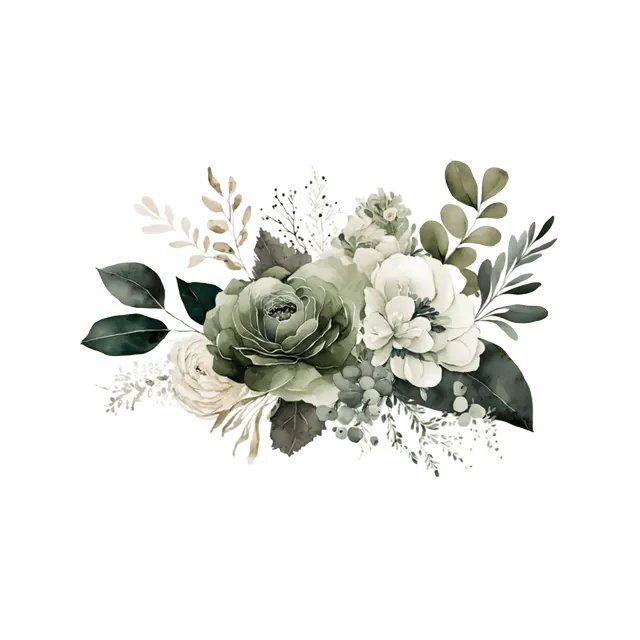
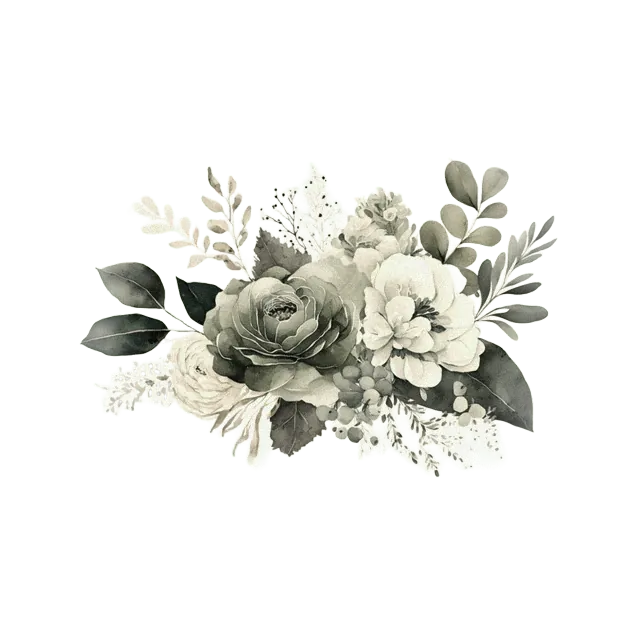
Fluidez de vuelta: flores horneadas; la cancion siempre suena; boton de silencio
Las flores llevaban un filtro SVG (feTurbulence) mas filtros CSS y una
mascara, dos de ellas dentro del hero sticky: en iOS eso obliga a
repintar por software en cada cuadro de la recogida del video. Ahora
tinte, grano y fundido van horneados en los propios webp (ffmpeg) y
las flores son imagenes planas en su propia capa; fuera el filtro SVG
y los blur de la portada; el hero ya no aisla contexto.

La cancion se desbloquea dentro del toque del sello (play + pause en
el gesto): iOS solo permite reproducir fuera de un toque a los
elementos que ya sonaron dentro de uno, y la cancion se pedia por
primera vez al hacer scroll. Si aun asi se rechaza, se reintenta en el
siguiente toque. Boton de silencio global (cancion y trailer), abajo a
la derecha, coordinado con el boton de sonido del trailer.

diff --git a/index.html b/index.html
@@ -17,20 +17,14 @@
   <link rel="preconnect" href="https://fonts.googleapis.com">
   <link rel="preconnect" href="https://fonts.gstatic.com" crossorigin>
   <link href="https://fonts.googleapis.com/css2?family=Bodoni+Moda:ital,opsz,wght@0,6..96,400;0,6..96,500;1,6..96,400&family=Jost:wght@300;400;500&family=Pinyon+Script&display=swap" rel="stylesheet">
-  <link rel="preload" as="image" href="savethedate-poster.jpg?v=20260903p">
-  <link rel="stylesheet" href="velada.css?v=20260903p">
+  <link rel="preload" as="image" href="savethedate-poster.jpg?v=20260903r">
+  <link rel="stylesheet" href="velada.css?v=20260903r">
 </head>
 <body>
 
 <!-- Símbolos dibujados una vez: ramita de olivo, esquina grabada, rombo, sello de lacre, escudo, hoja -->
 <svg width="0" height="0" style="position:absolute" aria-hidden="true">
   <defs>
-    <filter id="grano-flor" x="0" y="0" width="100%" height="100%" color-interpolation-filters="sRGB">
-      <feTurbulence type="fractalNoise" baseFrequency="0.9" numOctaves="2" seed="7" result="ruido"></feTurbulence>
-      <feColorMatrix in="ruido" type="matrix" values="0 0 0 0 0.42  0 0 0 0 0.36  0 0 0 0 0.3  0 0 0 0.42 0" result="grano"></feColorMatrix>
-      <feComposite in="grano" in2="SourceGraphic" operator="in" result="granoDentro"></feComposite>
-      <feBlend in="SourceGraphic" in2="granoDentro" mode="multiply"></feBlend>
-    </filter>
     <symbol id="ramita" viewBox="0 0 120 60">
       <path d="M6 54 C 34 46, 62 32, 114 6" fill="none"></path>
       <path d="M24 47 q 4 -12 14 -9 q -6 11 -14 9 z"></path>
@@ -76,8 +70,8 @@
 <!-- ══════════════ 00 · LA PORTADA · la carta que se abre ══════════════ -->
 <div class="portada" id="portada">
   <div class="hojas" id="portada-hojas" aria-hidden="true"></div>
-  <span class="flor flor--portada-tl" aria-hidden="true"><img src="flor-1.webp?v=20260903p" alt="" loading="lazy" decoding="async"></span>
-  <span class="flor flor--portada-br" aria-hidden="true"><img src="flor-2.webp?v=20260903p" alt="" loading="lazy" decoding="async"></span>
+  <span class="flor flor--portada-tl" aria-hidden="true"><img src="flor-1.webp?v=20260903r" alt="" loading="lazy" decoding="async"></span>
+  <span class="flor flor--portada-br" aria-hidden="true"><img src="flor-2.webp?v=20260903r" alt="" loading="lazy" decoding="async"></span>
   <div class="portada__barra portada__barra--arriba" aria-hidden="true"></div>
   <div class="portada__barra portada__barra--abajo" aria-hidden="true"></div>
   <div class="portada__vineta" aria-hidden="true"></div>
@@ -119,8 +113,8 @@
             <svg class="sobre3d__lazo" viewBox="0 0 28 22"><use href="#lazo"></use></svg>
           </div>
           <button type="button" class="sobre3d__sello sobre3d__pieza" id="abrir" aria-label="Abrir la invitación">
-            <span class="lacre lacre--mitad lacre--izq" aria-hidden="true"><img class="lacre__img" src="sello.webp?v=20260903p" alt="" decoding="async"><span class="lacre__mono didone">I&amp;M</span></span>
-            <span class="lacre lacre--mitad lacre--der" aria-hidden="true"><img class="lacre__img" src="sello.webp?v=20260903p" alt="" decoding="async"><span class="lacre__mono didone">I&amp;M</span></span>
+            <span class="lacre lacre--mitad lacre--izq" aria-hidden="true"><img class="lacre__img" src="sello.webp?v=20260903r" alt="" decoding="async"><span class="lacre__mono didone">I&amp;M</span></span>
+            <span class="lacre lacre--mitad lacre--der" aria-hidden="true"><img class="lacre__img" src="sello.webp?v=20260903r" alt="" decoding="async"><span class="lacre__mono didone">I&amp;M</span></span>
             <span class="sobre__halo" aria-hidden="true"></span>
           </button>
         </div>
@@ -141,8 +135,8 @@
     <svg class="esquina esquina--bl" aria-hidden="true"><use href="#esquina"></use></svg>
     <svg class="esquina esquina--br" aria-hidden="true"><use href="#esquina"></use></svg>
     <div class="hojas" id="hojas" aria-hidden="true"></div>
-    <span class="flor flor--hero-tl" aria-hidden="true"><img src="flor-3.webp?v=20260903p" alt="" loading="lazy" decoding="async"></span>
-    <span class="flor flor--hero-br" aria-hidden="true"><img src="flor-4.webp?v=20260903p" alt="" loading="lazy" decoding="async"></span>
+    <span class="flor flor--hero-tl" aria-hidden="true"><img src="flor-3.webp?v=20260903r" alt="" loading="lazy" decoding="async"></span>
+    <span class="flor flor--hero-br" aria-hidden="true"><img src="flor-4.webp?v=20260903r" alt="" loading="lazy" decoding="async"></span>
 
     <div class="hero__contenido">
       <p class="caps hero__lema">
@@ -175,7 +169,7 @@
         <div class="arco__filete" aria-hidden="true"></div>
         <div class="arco" id="arco" aria-hidden="true"></div>
         <div class="liston script" id="liston" aria-hidden="true">reservado</div>
-        <span class="lacre sello--hero" aria-hidden="true"><img class="lacre__img" src="sello.webp?v=20260903p" alt="" decoding="async"><span class="lacre__mono didone">I&amp;M</span></span>
+        <span class="lacre sello--hero" aria-hidden="true"><img class="lacre__img" src="sello.webp?v=20260903r" alt="" decoding="async"><span class="lacre__mono didone">I&amp;M</span></span>
       </div>
 
       <h1 class="didone hero__nombres">Inés <span class="hero__amp">&amp;</span> Marcel</h1>
@@ -192,12 +186,12 @@
     <!-- El trailer: pantalla completa al abrir, se recoge hasta el arco al deslizar -->
     <div class="pantalla" id="pantalla">
       <video class="pantalla__ambiente" id="ambiente" muted loop playsinline preload="none" aria-hidden="true">
-        <source src="savethedate.m4v?v=20260903p" type="video/mp4">
-        <source src="savethedate.mp4?v=20260903p" type="video/mp4">
+        <source src="savethedate.m4v?v=20260903r" type="video/mp4">
+        <source src="savethedate.mp4?v=20260903r" type="video/mp4">
       </video>
-      <video id="trailer" class="pantalla__video" playsinline webkit-playsinline muted autoplay loop preload="auto" poster="savethedate-poster.jpg?v=20260903p">
-        <source src="savethedate.m4v?v=20260903p" type="video/mp4">
-        <source src="savethedate.mp4?v=20260903p" type="video/mp4">
+      <video id="trailer" class="pantalla__video" playsinline webkit-playsinline muted autoplay loop preload="auto" poster="savethedate-poster.jpg?v=20260903r">
+        <source src="savethedate.m4v?v=20260903r" type="video/mp4">
+        <source src="savethedate.mp4?v=20260903r" type="video/mp4">
       </video>
       <div class="pantalla__velo" aria-hidden="true"></div>
       <p class="caps pantalla__marca">Save the date · 00:46</p>
@@ -218,7 +212,13 @@
 
 
 
-  <!-- El trailer se acopla aquí como medallón cuando el invitado baja -->
+  <!-- Silencio global: canción y trailer -->
+<button type="button" class="silencio" id="silencio" hidden aria-label="Silenciar">
+  <svg class="silencio__on" viewBox="0 0 24 24" aria-hidden="true"><path d="M4 9v6h4l5 4V5L8 9H4z" fill="none" stroke="currentColor" stroke-width="1.5" stroke-linejoin="round"></path><path d="M16 9a4 4 0 0 1 0 6M18.5 6.5a8 8 0 0 1 0 11" fill="none" stroke="currentColor" stroke-width="1.5" stroke-linecap="round"></path></svg>
+  <svg class="silencio__off" viewBox="0 0 24 24" aria-hidden="true"><path d="M4 9v6h4l5 4V5L8 9H4z" fill="none" stroke="currentColor" stroke-width="1.5" stroke-linejoin="round"></path><path d="M16 9l5 6M21 9l-5 6" fill="none" stroke="currentColor" stroke-width="1.5" stroke-linecap="round"></path></svg>
+</button>
+
+<!-- El trailer se acopla aquí como medallón cuando el invitado baja -->
   <button type="button" class="medallon" id="medallon" hidden aria-label="Volver al trailer">
     <span class="medallon__hueco" id="medallon-hueco"></span>
     <span class="medallon__anillo" aria-hidden="true"></span>
@@ -228,7 +228,7 @@
 
     <!-- ══════════════ 02 · LA TARJETA DE ENCAJE ══════════════ -->
     <section class="seccion seccion--piedra reveal" id="invitacion">
-      <span class="flor flor--invitacion" aria-hidden="true"><img src="flor-2.webp?v=20260903p" alt="" loading="lazy" decoding="async"></span>
+      <span class="flor flor--invitacion" aria-hidden="true"><img src="flor-2.webp?v=20260903r" alt="" loading="lazy" decoding="async"></span>
       <svg class="rama-fondo rama-fondo--tl" aria-hidden="true"><use href="#ramita"></use></svg>
       <svg class="rama-fondo rama-fondo--br" aria-hidden="true"><use href="#ramita"></use></svg>
       <div class="encaje encaje--arriba r" style="--i: 0" aria-hidden="true"></div>
@@ -251,14 +251,14 @@
 
     <!-- ══════════════ 03 · EL LUGAR · mini-film de Vino Mundo ══════════════ -->
     <section class="seccion seccion--con-flor reveal" id="lugar">
-      <span class="flor flor--lugar" aria-hidden="true"><img src="flor-4.webp?v=20260903p" alt="" loading="lazy" decoding="async"></span>
+      <span class="flor flor--lugar" aria-hidden="true"><img src="flor-4.webp?v=20260903r" alt="" loading="lazy" decoding="async"></span>
       <div class="divisor r" style="--i: 0" aria-hidden="true"><span></span><svg class="divisor__rama"><use href="#ramita"></use></svg><span></span></div>
       <p class="caps seccion__rotulo r" style="--i: 1">El lugar</p>
 
       <div class="minifilm r" id="minifilm" style="--i: 2" role="img" aria-label="Vino Mundo: el salón del acto civil y el de la cena">
         <div class="minifilm__barra minifilm__barra--arriba"></div>
-        <img class="minifilm__escena minifilm__escena--1" src="venue-civil.jpg?v=20260903p" alt="" loading="lazy" decoding="async">
-        <img class="minifilm__escena minifilm__escena--2" src="venue-cena.jpg?v=20260903p" alt="" loading="lazy" decoding="async">
+        <img class="minifilm__escena minifilm__escena--1" src="venue-civil.jpg?v=20260903r" alt="" loading="lazy" decoding="async">
+        <img class="minifilm__escena minifilm__escena--2" src="venue-cena.jpg?v=20260903r" alt="" loading="lazy" decoding="async">
         <div class="minifilm__vineta"></div>
         <div class="minifilm__grano"></div>
         <div class="minifilm__rotulo minifilm__rotulo--1"><span class="didone">El sí</span><span class="caps">Acto civil · 5:00 PM</span></div>
@@ -283,11 +283,11 @@
       <div class="carrete r" id="carrete" style="--i: 1">
         <div class="carrete__perf" aria-hidden="true"></div>
         <div class="carrete__pista" id="pista">
-          <figure class="fotograma" data-tc="33"><img src="fotograma-d.jpg?v=20260903p" alt="Inés y Marcel" loading="lazy" decoding="async"><figcaption class="caps">01 · TC 00:33</figcaption></figure>
-          <figure class="fotograma" data-tc="24"><img src="fotograma-b.jpg?v=20260903p" alt="Inés" loading="lazy" decoding="async"><figcaption class="caps">02 · TC 00:24</figcaption></figure>
-          <figure class="fotograma" data-tc="14"><img src="fotograma-e.jpg?v=20260903p" alt="" loading="lazy" decoding="async"><figcaption class="caps">03 · TC 00:14</figcaption></figure>
-          <figure class="fotograma" data-tc="7"><img src="fotograma-a.jpg?v=20260903p" alt="" loading="lazy" decoding="async"><figcaption class="caps">04 · TC 00:07</figcaption></figure>
-          <figure class="fotograma fotograma--foto"><img src="fotograma-novios.jpg?v=20260903p" alt="Inés y Marcel" loading="lazy" decoding="async"><figcaption class="caps">05 · Fotografía</figcaption></figure>
+          <figure class="fotograma" data-tc="33"><img src="fotograma-d.jpg?v=20260903r" alt="Inés y Marcel" loading="lazy" decoding="async"><figcaption class="caps">01 · TC 00:33</figcaption></figure>
+          <figure class="fotograma" data-tc="24"><img src="fotograma-b.jpg?v=20260903r" alt="Inés" loading="lazy" decoding="async"><figcaption class="caps">02 · TC 00:24</figcaption></figure>
+          <figure class="fotograma" data-tc="14"><img src="fotograma-e.jpg?v=20260903r" alt="" loading="lazy" decoding="async"><figcaption class="caps">03 · TC 00:14</figcaption></figure>
+          <figure class="fotograma" data-tc="7"><img src="fotograma-a.jpg?v=20260903r" alt="" loading="lazy" decoding="async"><figcaption class="caps">04 · TC 00:07</figcaption></figure>
+          <figure class="fotograma fotograma--foto"><img src="fotograma-novios.jpg?v=20260903r" alt="Inés y Marcel" loading="lazy" decoding="async"><figcaption class="caps">05 · Fotografía</figcaption></figure>
         </div>
         <div class="carrete__perf" aria-hidden="true"></div>
       </div>
@@ -367,7 +367,7 @@
 
     <!-- ══════════════ 06 · EL MENÚ ══════════════ -->
     <section class="seccion seccion--piedra reveal" id="menu">
-      <span class="flor flor--menu" aria-hidden="true"><img src="flor-1.webp?v=20260903p" alt="" loading="lazy" decoding="async"></span>
+      <span class="flor flor--menu" aria-hidden="true"><img src="flor-1.webp?v=20260903r" alt="" loading="lazy" decoding="async"></span>
       <svg class="rama-fondo rama-fondo--tr" aria-hidden="true"><use href="#ramita"></use></svg>
       <svg class="rama-fondo rama-fondo--bl" aria-hidden="true"><use href="#ramita"></use></svg>
       <div class="encaje encaje--arriba r" style="--i: 0" aria-hidden="true"></div>
@@ -409,7 +409,7 @@
 
     <!-- ══════════════ LA BARRA · para quien desee alcohol adicional ══════════════ -->
     <section class="seccion seccion--piedra reveal" id="barra">
-      <span class="flor flor--barra" aria-hidden="true"><img src="flor-3.webp?v=20260903p" alt="" loading="lazy" decoding="async"></span>
+      <span class="flor flor--barra" aria-hidden="true"><img src="flor-3.webp?v=20260903r" alt="" loading="lazy" decoding="async"></span>
       <svg class="rama-fondo rama-fondo--tl" aria-hidden="true"><use href="#ramita"></use></svg>
       <svg class="rama-fondo rama-fondo--br" aria-hidden="true"><use href="#ramita"></use></svg>
       <div class="encaje encaje--arriba r" style="--i: 0" aria-hidden="true"></div>
@@ -452,7 +452,7 @@
 
     <!-- ══════════════ 07 · CONFIRMACIÓN ══════════════ -->
     <section class="seccion seccion--con-flor reveal" id="rsvp">
-      <span class="flor flor--rsvp" aria-hidden="true"><img src="flor-2.webp?v=20260903p" alt="" loading="lazy" decoding="async"></span>
+      <span class="flor flor--rsvp" aria-hidden="true"><img src="flor-2.webp?v=20260903r" alt="" loading="lazy" decoding="async"></span>
       <svg class="divisor__rama divisor__rama--suelta r" style="--i: 0" aria-hidden="true"><use href="#ramita"></use></svg>
       <h2 class="didone rsvp__titulo r" style="--i: 1">¿Nos acompañas?</h2>
       <p class="rsvp__texto r" style="--i: 2">Confirma antes del <strong>15 de septiembre de 2026</strong>.</p>
@@ -540,7 +540,7 @@
       <p class="rsvp__deadline caps" id="rsvp-deadline-note" hidden>Las confirmaciones se cerraron el 15 de septiembre de 2026.</p>
 
       <div class="rsvp__thanks" id="rsvp-thanks" hidden>
-        <span class="lacre sello--gracias" aria-hidden="true"><img class="lacre__img" src="sello.webp?v=20260903p" alt="" decoding="async"><span class="lacre__mono didone">I&amp;M</span></span>
+        <span class="lacre sello--gracias" aria-hidden="true"><img class="lacre__img" src="sello.webp?v=20260903r" alt="" decoding="async"><span class="lacre__mono didone">I&amp;M</span></span>
         <p class="rsvp__summary" id="rsvp-summary"></p>
         <button type="button" class="boton caps" id="rsvp-edit-btn">Editar respuesta</button>
       </div>
@@ -548,20 +548,20 @@
 
     <!-- ══════════════ FIRMA ══════════════ -->
     <footer class="firma reveal">
-      <span class="flor flor--firma" aria-hidden="true"><img src="flor-1.webp?v=20260903p" alt="" loading="lazy" decoding="async"></span>
+      <span class="flor flor--firma" aria-hidden="true"><img src="flor-1.webp?v=20260903r" alt="" loading="lazy" decoding="async"></span>
       <div class="firma__linea r" style="--i: 0">
         <span class="script firma__texto" id="firma">con amor,</span>
-        <span class="lacre sello--firma" aria-hidden="true"><img class="lacre__img" src="sello.webp?v=20260903p" alt="" decoding="async"><span class="lacre__mono didone">I&amp;M</span></span>
+        <span class="lacre sello--firma" aria-hidden="true"><img class="lacre__img" src="sello.webp?v=20260903r" alt="" decoding="async"><span class="lacre__mono didone">I&amp;M</span></span>
       </div>
       <p class="caps firma__pie r" style="--i: 1">Vino Mundo · 27 · 11 · 2026</p>
     </footer>
   </main>
 </div>
 
-<audio id="cancion" src="cancion.mp3?v=20260903p" preload="none" loop></audio>
+<audio id="cancion" src="cancion.mp3?v=20260903r" preload="none" loop></audio>
 
-<script src="rsvp-api.js?v=20260903p"></script>
-<script src="rsvp.js?v=20260903p"></script>
-<script src="velada.js?v=20260903p"></script>
+<script src="rsvp-api.js?v=20260903r"></script>
+<script src="rsvp.js?v=20260903r"></script>
+<script src="velada.js?v=20260903r"></script>
 </body>
 </html>

diff --git a/velada.js b/velada.js
@@ -91,6 +91,8 @@
   const hueco = $('#medallon-hueco');
   const cancion = $('#cancion');
 
+  const silencio = $('#silencio');
+  let mudo = false;
   let soundUnlocked = false;
   let trailerStarted = false;
   let docked = false;
@@ -99,6 +101,24 @@
 
   document.documentElement.classList.add('is-locked');
   document.body.classList.add('is-locked');
+
+  function aplicarSilencio() {
+    if (cancion) cancion.muted = mudo;
+    if (trailer) trailer.muted = docked ? true : (mudo || !soundUnlocked);
+    if (silencio) {
+      silencio.classList.toggle('is-mudo', mudo);
+      silencio.setAttribute('aria-label', mudo ? 'Activar sonido' : 'Silenciar');
+    }
+    reflejarSonido();
+  }
+  if (silencio) {
+    silencio.addEventListener('click', () => {
+      mudo = !mudo;
+      if (!mudo) soundUnlocked = true;
+      aplicarSilencio();
+      if (!mudo && docked && cancion && cancion.paused && trailerStarted) safePlay(cancion);
+    });
+  }
 
   function reflejarSonido() {
     if (!soundText || !trailer) return;
@@ -161,8 +181,21 @@
     if (portada) portada.classList.add('is-opening');
     arrancarConSonido();
     if (ambiente && esEscritorio.matches) { ambiente.preload = 'auto'; safePlay(ambiente); }
+    // iOS solo deja reproducir fuera de un toque a los elementos que ya
+    // sonaron dentro de uno: la cancion arranca aqui y se detiene al instante.
+    if (cancion) {
+      cancion.preload = 'auto';
+      const primer = cancion.play();
+      if (primer && typeof primer.then === 'function') {
+        primer.then(() => {
+          cancion.pause();
+          try { cancion.currentTime = 0; } catch (error) { /* sin metadata */ }
+        }).catch(() => {});
+      }
+    }
     setTimeout(() => {
       if (portada) portada.hidden = true;
+      if (silencio) silencio.hidden = false;
       document.documentElement.classList.remove('is-locked');
       document.body.classList.remove('is-locked');
       window.scrollTo(0, 0);
@@ -182,6 +215,9 @@
       if (!trailer.muted) {
         try { trailer.volume = 1; } catch (error) { /* iOS */ }
         soundUnlocked = true;
+        mudo = false;
+        if (silencio) { silencio.classList.remove('is-mudo'); silencio.setAttribute('aria-label', 'Silenciar'); }
+        if (cancion) cancion.muted = false;
       }
       safePlay(trailer);
       reflejarSonido();
@@ -209,7 +245,7 @@
       if (document.hidden || trailer.ended) return;
       if (!trailer.paused) { fallos = 0; return; }
       fallos += 1;
-      if (!soundUnlocked) trailer.muted = true;
+      if (!soundUnlocked || mudo) trailer.muted = true;
       safePlay(trailer);
       if (fallos >= 3 && opened && tocaButton) tocaButton.hidden = false;
     }, 1000);
@@ -226,9 +262,18 @@
     hueco.appendChild(trailer);
     safePlay(trailer);
     if (trailerStarted && cancion) {
+      cancion.muted = mudo;
       try { cancion.volume = 0; } catch (error) { /* iOS */ }
       safePlay(cancion);
       fadeAudio(cancion, 0.85, 1600);
+      // Si el navegador la rechaza, se reintenta al primer toque siguiente.
+      setTimeout(() => {
+        if (cancion.paused && docked && !mudo) {
+          const reintentar = () => { if (docked && !mudo) safePlay(cancion); };
+          document.addEventListener('pointerdown', reintentar, { once: true, passive: true });
+          document.addEventListener('touchstart', reintentar, { once: true, passive: true });
+        }
+      }, 800);
     }
   }
 
@@ -239,7 +284,7 @@
     medallon.classList.add('is-off');
     setTimeout(() => { if (!docked) medallon.hidden = true; }, 380);
     pantalla.insertBefore(trailer, pantallaVelo);
-    if (soundUnlocked) trailer.muted = false;
+    trailer.muted = mudo || !soundUnlocked;
     reflejarSonido();
     safePlay(trailer);
     if (cancion && !cancion.paused) fadeAudio(cancion, 0, 900, () => cancion.pause());
@@ -301,7 +346,7 @@
       if (cancion && !cancion.paused) cancion.pause();
     } else {
       safePlay(trailer);
-      if (docked && trailerStarted && cancion) safePlay(cancion);
+      if (docked && trailerStarted && cancion && !mudo) safePlay(cancion);
     }
   });
 

diff --git a/velada.css b/velada.css
@@ -241,8 +241,8 @@ html.is-locked, body.is-locked { overflow: hidden; height: 100%; }
 .portada__barra--arriba { top: 0; transform-origin: 50% 0; }
 .portada__barra--abajo { bottom: 0; transform-origin: 50% 100%; }
 .portada.is-opening .portada__barra { transform: scaleY(1); }
-.portada .hojas { transition: filter 0.9s ease, opacity 0.9s ease; }
-.portada.is-opening .hojas { filter: blur(2px); opacity: 0.55; }
+.portada .hojas { transition: opacity 0.9s ease; }
+.portada.is-opening .hojas { opacity: 0.45; }
 .portada .camara, .portada .sobre__pista { position: relative; z-index: 1; }
 
 /* ============================================================
@@ -355,6 +355,23 @@ body.is-open .pantalla__video { transform: none; }
 .medallon__hueco video { width: 100%; height: 100%; object-fit: cover; }
 .medallon__anillo { position: absolute; inset: -4px; border-radius: 50%; border: 1px solid rgba(74,58,43,0.6); pointer-events: none; }
 .medallon__anillo::after { content: ''; position: absolute; inset: 3px; border-radius: 50%; border: 1px solid rgba(248,243,233,0.9); }
+
+/* Silencio global: una pastilla de cera abajo a la derecha */
+.silencio {
+  position: fixed; right: 16px; bottom: 18px; z-index: 60;
+  width: 46px; height: 46px; border-radius: 50%;
+  background: var(--choco); color: var(--lino);
+  display: flex; align-items: center; justify-content: center;
+  box-shadow: 0 10px 24px rgba(74,58,43,0.35), inset 0 0 0 1px rgba(244,238,227,0.25);
+  transition: transform 0.25s var(--suave), opacity 0.4s ease;
+}
+.silencio:active { transform: scale(0.94); }
+.silencio svg { width: 20px; height: 20px; }
+.silencio .silencio__off { display: none; }
+.silencio.is-mudo .silencio__on { display: none; }
+.silencio.is-mudo .silencio__off { display: block; }
+.silencio.is-mudo { background: var(--lino); color: var(--choco); box-shadow: 0 10px 24px rgba(74,58,43,0.25), inset 0 0 0 1px rgba(74,58,43,0.5); }
+@media (min-width: 900px) { .silencio { right: 24px; bottom: 24px; width: 52px; height: 52px; } }
 
 /* ============================================================
    SECCIONES · fondo, tarjetas, encaje, revelado
@@ -732,19 +749,18 @@ body.is-open .pantalla__video { transform: none; }
    fundidos en los bordes con una máscara radial. Siempre detrás del
    contenido (z-index -1 dentro de cada sección aislada).
    ============================================================ */
-.seccion, .firma, .hero__vista, .portada { isolation: isolate; }
+.seccion, .firma, .portada { isolation: isolate; }
 .seccion--con-flor, .firma { overflow: hidden; }
 .flor {
   position: absolute; z-index: -1; pointer-events: none;
+  transform: translateZ(0); backface-visibility: hidden;
   opacity: var(--op, 0.42);
-  -webkit-mask-image: radial-gradient(ellipse 62% 62% at 50% 50%, #000 30%, transparent 72%);
-  mask-image: radial-gradient(ellipse 62% 62% at 50% 50%, #000 30%, transparent 72%);
 }
-.flor img { display: block; width: 100%; height: auto; filter: sepia(0.35) saturate(0.6) brightness(1.02) contrast(0.92) url(#grano-flor); }
+.flor img { display: block; width: 100%; height: auto; }
 .flor--portada-tl { width: 360px; left: -150px; top: -60px; transform: rotate(-18deg); --op: 0.38; }
 .flor--portada-br { width: 380px; right: -160px; bottom: -70px; transform: rotate(160deg); --op: 0.38; }
-.portada .flor { transition: filter 0.9s ease, opacity 0.9s ease; }
-.portada.is-opening .flor { filter: blur(2px); opacity: 0.2; }
+.portada .flor { transition: opacity 0.9s ease; }
+.portada.is-opening .flor { opacity: 0.2; }
 .flor--hero-tl { width: 320px; left: -130px; top: -10px; transform: rotate(-22deg); --op: 0.34; }
 .flor--hero-br { width: 340px; right: -140px; bottom: -30px; transform: rotate(158deg); --op: 0.34; }
 .flor--invitacion { width: 300px; right: -120px; top: -40px; transform: rotate(14deg); --op: 0.5; }
